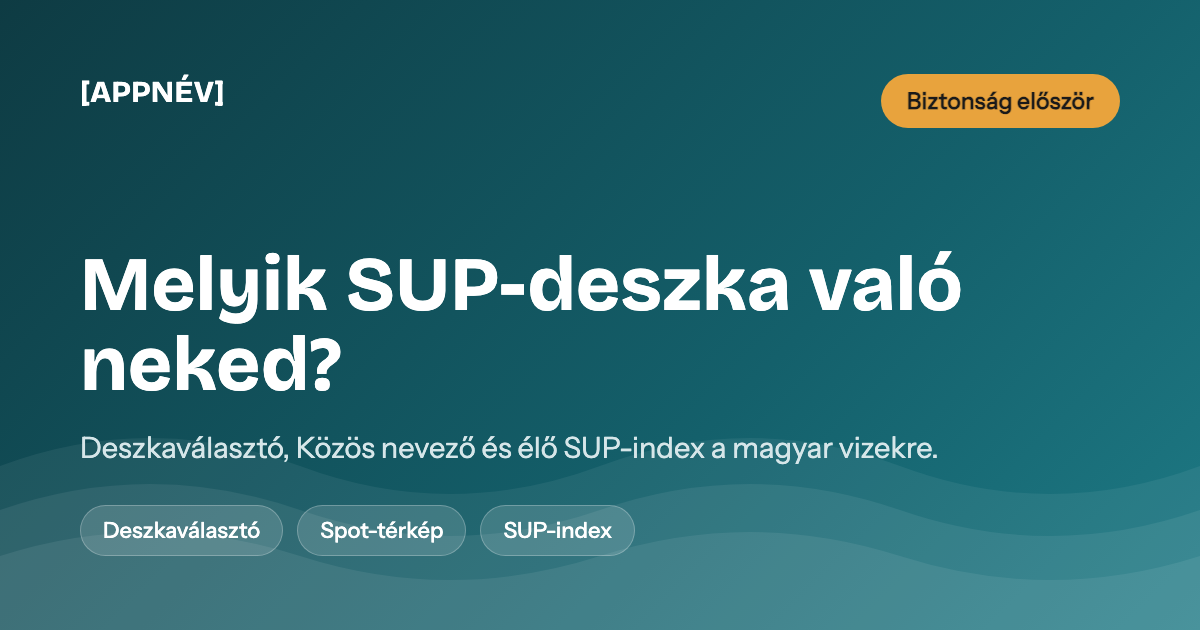
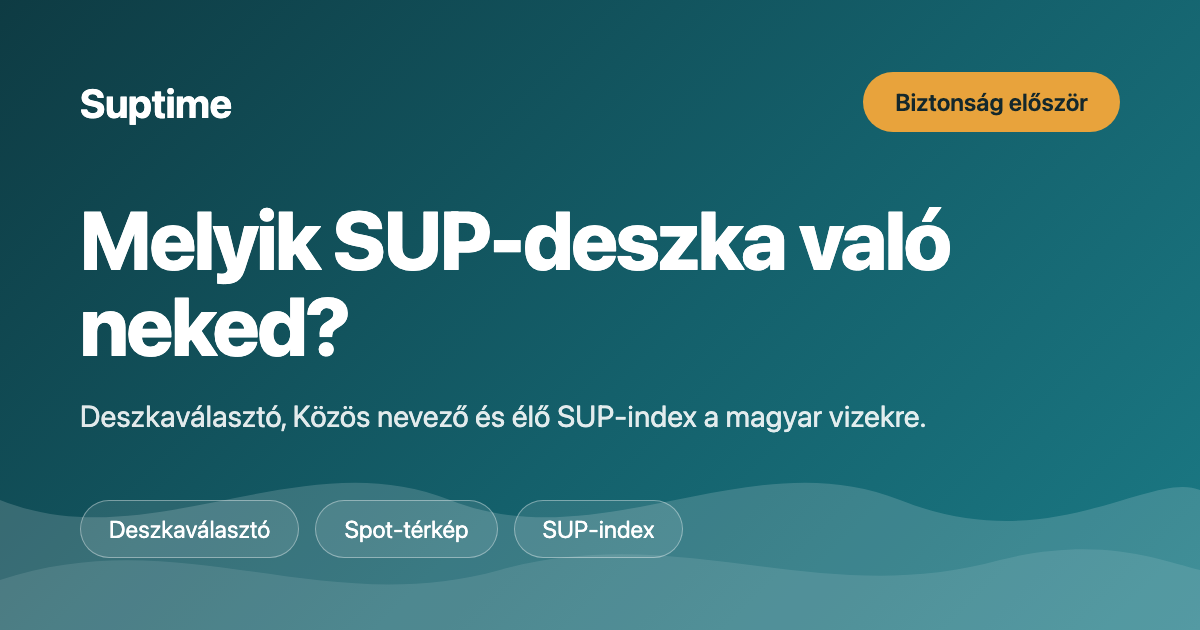
feat(brand): a termék neve Suptime — a [APPNÉV] placeholder feloldva
A név eldőlt, így az F1 óta nyitott placeholder 28 helyen kicserélve. Nem
kozmetika: a placeholder rá volt írva a megosztás-kártyára is, tehát minden
megosztott link "[APPNÉV]"-vel jelent volna meg.

- Új @core/brand (APP_NAME): a TS-kód egyetlen forrása. A 10 route-meta eddig
  beégetve tartalmazta a nevet — most innen kapja.
- i18n (hu+en, 5 namespace): ott a név a lefordított mondat része.
- OG-kártya újragenerálva ÉS mostantól újragenerálható: a forrás (og-card.html)
  is commitolva, mert az előző változatnál csak a PNG került be, a generáló HTML
  eldobódott.
- sw.js push-cím és a basic-auth realm (külön fordítási egységek).

Mellékesen: a spot-adatlap e2e-je szigorú h1-keresővel elhasalt, amikor élesbe
váltott egy II. fokú viharjelzés (a riasztás-képernyőnek saját h1-e van) —
véletlenszerű piros lett volna, mert a lokális futás a távoli DB-t nézi.

Claude-Session: https://claude.ai/code/session_01A7rfBSFr29YCeeWRVbtoxb

diff --git a/scripts/og-card.html b/scripts/og-card.html
@@ -1,0 +1,123 @@
+<!doctype html>
+<!--
+  A megosztás-kártya (1200×630) FORRÁSA — ebből készül a `public/og/default.png`.
+
+  MIÉRT VAN COMMITOLVA: az első változatot (F1.10/8) csak PNG-ként tettük be, a
+  generáló HTML eldobódott — így a kártya nem volt újragenerálható. A névváltás
+  (Suptime) pontosan ezt kérte számon: a képre RÁ VOLT ÍRVA a placeholder.
+
+  Újragenerálás:  node scripts/generate-og.mjs
+
+  A színek a `src/core/ui/tokens.css` brand-blokkjából valók (a BIZTONSÁGI
+  tokenek itt nem szerepelnek — ez marketing-felület, nem státusz-jelzés).
+-->
+<html lang="hu">
+  <head>
+    <meta charset="utf-8" />
+    <style>
+      /* A rendszer-betűkészletre építünk: a kártya offline, a Playwright
+         chromiumában generálódik, ezért nem tölthetünk webfontot. */
+      * { margin: 0; padding: 0; box-sizing: border-box; }
+
+      body {
+        width: 1200px;
+        height: 630px;
+        position: relative;
+        overflow: hidden;
+        background: linear-gradient(135deg, #0E3B43 0%, #14606B 55%, #1B7A85 100%);
+        font-family: -apple-system, BlinkMacSystemFont, "Segoe UI", Helvetica, Arial, sans-serif;
+        color: #FFFFFF;
+      }
+
+      /* Hullám-motívum — ugyanaz a formanyelv, mint a betöltés-jelzőé. */
+      .waves { position: absolute; inset: auto 0 0 0; height: 220px; opacity: 0.16; }
+      .waves + .waves { opacity: 0.1; bottom: -40px; }
+
+      .frame {
+        position: relative;
+        height: 100%;
+        padding: 72px 80px;
+        display: flex;
+        flex-direction: column;
+      }
+
+      .top { display: flex; align-items: center; justify-content: space-between; }
+
+      .brand {
+        font-size: 40px;
+        font-weight: 700;
+        letter-spacing: -0.5px;
+      }
+
+      /* Amber jelvény — a CTA-szabály szerint MINDIG sötét felirattal. */
+      .badge {
+        background: #E8A33C;
+        color: #14282C;
+        font-size: 24px;
+        font-weight: 600;
+        padding: 16px 32px;
+        border-radius: 999px;
+      }
+
+      .middle { margin-top: auto; margin-bottom: auto; }
+
+      h1 {
+        font-size: 82px;
+        line-height: 1.05;
+        font-weight: 800;
+        letter-spacing: -2px;
+        max-width: 940px;
+      }
+
+      .lead {
+        margin-top: 28px;
+        font-size: 30px;
+        line-height: 1.35;
+        color: rgba(255, 255, 255, 0.88);
+        max-width: 900px;
+      }
+
+      .chips { display: flex; gap: 16px; }
+
+      .chip {
+        border: 1px solid rgba(255, 255, 255, 0.38);
+        background: rgba(255, 255, 255, 0.1);
+        border-radius: 999px;
+        padding: 14px 28px;
+        font-size: 24px;
+      }
+    </style>
+  </head>
+  <body>
+    <svg class="waves" viewBox="0 0 1200 220" preserveAspectRatio="none" aria-hidden="true">
+      <path
+        fill="#FFFFFF"
+        d="M0,90 C150,150 300,30 450,90 C600,150 750,30 900,90 C1050,150 1150,60 1200,80 L1200,220 L0,220 Z"
+      />
+    </svg>
+    <svg class="waves" viewBox="0 0 1200 220" preserveAspectRatio="none" aria-hidden="true">
+      <path
+        fill="#FFFFFF"
+        d="M0,130 C180,70 320,170 500,120 C680,70 820,160 1000,110 C1100,85 1160,110 1200,120 L1200,220 L0,220 Z"
+      />
+    </svg>
+
+    <div class="frame">
+      <div class="top">
+        <div class="brand">Suptime</div>
+        <div class="badge">Biztonság először</div>
+      </div>
+
+      <div class="middle">
+        <h1>Melyik SUP-deszka való neked?</h1>
+        <p class="lead">Deszkaválasztó, Közös nevező és élő SUP-index a magyar vizekre.</p>
+      </div>
+
+      <div class="chips">
+        <span class="chip">Deszkaválasztó</span>
+        <span class="chip">Spot-térkép</span>
+        <span class="chip">SUP-index</span>
+      </div>
+    </div>
+  </body>
+</html>

diff --git a/src/core/brand.ts b/src/core/brand.ts
@@ -1,0 +1,18 @@
+/**
+ * Márkanév — EGYETLEN forrás a TypeScript-kód számára.
+ *
+ * Az F1 alatt a név még nem volt eldöntve, ezért `[APPNÉV]` placeholder állt
+ * ~20 helyen (route-meták, i18n-címek, a megosztás-kártya). A név 2026-07-27-én
+ * **Suptime** lett; a placeholderek feloldva.
+ *
+ * HOL ÉL MÉG A NÉV, ÉS MIÉRT NEM ITT:
+ * - az i18n-fájlokban (`locales/**`) a név a lefordított MONDATOK része
+ *   („… | Suptime"), és a fordítás nem hivatkozhat kódra;
+ * - a `public/og/default.png` kártyán RAJZOLVA (forrás: `scripts/og-card.html`,
+ *   újragenerálás: `node scripts/generate-og.mjs`);
+ * - a `public/sw.js`-ben (a service worker nem éri el a bundle-t);
+ * - a `netlify/edge-functions/basic-auth.ts` realm-jében (Deno-runtime, külön
+ *   fordítási egység — és a HTTP-fejléc csak ASCII-t enged).
+ * Névváltáskor ez az öt hely a teljes lista (`grep -ri suptime`).
+ */
+export const APP_NAME = "Suptime";

diff --git a/e2e/public-paths.spec.ts b/e2e/public-paths.spec.ts
@@ -53,7 +53,12 @@ test.describe("Publikus felület", () => {
 
     await links.first().click();
     await expect(page).toHaveURL(/\/spotok\/[a-z0-9-]+/);
-    await expect(page.getByRole("heading", { level: 1 })).toBeVisible();
+    // A `first()` NEM kozmetika: II. fokú viharjelzésnél a teljes képernyős
+    // riasztás (`role="alertdialog"`) SAJÁT h1-gyel jelenik meg az adatlap
+    // címsora mellett, és a szigorú keresés két találaton elhasal. Ez ÉLES
+    // adaton múlik (a lokális futás a távoli DB-t nézi), tehát a teszt
+    // véletlenszerűen bukna — pontosan ez történt 2026-07-27-én.
+    await expect(page.getByRole("heading", { level: 1 }).first()).toBeVisible();
   });
 
   test("szolgáltatók: lista → profil, lead-űrlappal", async ({ page }) => {

diff --git a/app/routes/szolgaltatok.uj.tsx b/app/routes/szolgaltatok.uj.tsx
@@ -8,6 +8,7 @@
 import { useTranslation } from "react-i18next";
 import { data, Form, redirect } from "react-router";
 
+import { APP_NAME } from "@core/brand";
 import { requireUser } from "@core/auth/session.server";
 import { createSupabaseServerClient } from "@core/auth/supabase.server";
 import { Button, Card } from "@core/ui";
@@ -56,7 +57,7 @@ export async function action({ request }: Route.ActionArgs) {
 }
 
 export const meta: Route.MetaFunction = () => {
-  return [{ title: "[APPNÉV] — Regisztráld a szolgáltatásod" }];
+  return [{ title: `${APP_NAME} — Regisztráld a szolgáltatásod` }];
 };
 
 export default function NewProviderRoute({ actionData }: Route.ComponentProps) {

diff --git a/app/routes/admin.szolgaltatok.tsx b/app/routes/admin.szolgaltatok.tsx
@@ -8,6 +8,7 @@
 import { useTranslation } from "react-i18next";
 import { data, Form } from "react-router";
 
+import { APP_NAME } from "@core/brand";
 import { requireRole } from "@core/auth/session.server";
 import { createSupabaseServerClient } from "@core/auth/supabase.server";
 import { Button, Card, StatusBadge } from "@core/ui";
@@ -60,7 +61,7 @@ export async function action({ request }: Route.ActionArgs) {
 }
 
 export const meta: Route.MetaFunction = () => {
-  return [{ title: "[APPNÉV] — Szolgáltató-hitelesítés" }];
+  return [{ title: `${APP_NAME} — Szolgáltató-hitelesítés` }];
 };
 
 export default function AdminProvidersRoute({ loaderData }: Route.ComponentProps) {

diff --git a/app/routes/admin.velemenyek.tsx b/app/routes/admin.velemenyek.tsx
@@ -6,6 +6,7 @@
 import { useTranslation } from "react-i18next";
 import { data, Form } from "react-router";
 
+import { APP_NAME } from "@core/brand";
 import { requireRole } from "@core/auth/session.server";
 import { createSupabaseServerClient } from "@core/auth/supabase.server";
 import { Button, Card, StatusBadge } from "@core/ui";
@@ -84,7 +85,7 @@ export async function action({ request }: Route.ActionArgs) {
 }
 
 export const meta: Route.MetaFunction = () => {
-  return [{ title: "[APPNÉV] — Vélemény-moderáció" }];
+  return [{ title: `${APP_NAME} — Vélemény-moderáció` }];
 };
 
 export default function AdminReviewsRoute({ loaderData }: Route.ComponentProps) {

diff --git a/app/routes/adatvedelem.tsx b/app/routes/adatvedelem.tsx
@@ -2,6 +2,7 @@
  * /adatvedelem — Adatvédelmi tájékoztató (F1.8). Statikus, kétnyelvű jogi oldal
  * (a tartalom az `@core/legal`-ból, locale-helyesen). SEO: loader-alapú meta.
  */
+import { APP_NAME } from "@core/brand";
 import { getLocaleFromPath } from "@core/i18n";
 import { buildPageSeo } from "@core/seo/page-seo";
 import { privacyDocument } from "@core/legal/content";
@@ -16,7 +17,7 @@ export async function loader({ request }: Route.LoaderArgs) {
     request,
     locale,
     path: "/adatvedelem",
-    title: `${doc.title} | [APPNÉV]`,
+    title: `${doc.title} | ${APP_NAME}`,
     description: doc.disclaimer,
   });
   return { locale, seo };

diff --git a/app/routes/beleegyezes.tsx b/app/routes/beleegyezes.tsx
@@ -7,6 +7,7 @@
 import { useTranslation } from "react-i18next";
 import { data, Form, Link, redirect } from "react-router";
 
+import { APP_NAME } from "@core/brand";
 import { requireUser, safeRedirect } from "@core/auth/session.server";
 import { createSupabaseServerClient } from "@core/auth/supabase.server";
 import { REQUIRED_CONSENT_KINDS } from "@core/consent/config";
@@ -37,7 +38,7 @@ export async function action({ request }: Route.ActionArgs) {
 }
 
 export const meta: Route.MetaFunction = () => [
-  { title: "[APPNÉV] — Feltételek elfogadása" },
+  { title: `${APP_NAME} — Feltételek elfogadása` },
   { name: "robots", content: "noindex" },
 ];
 

diff --git a/app/routes/aszf.tsx b/app/routes/aszf.tsx
@@ -2,6 +2,7 @@
  * /aszf — Általános Szerződési Feltételek (F1.8). Statikus, kétnyelvű jogi oldal
  * (a tartalom az `@core/legal`-ból, locale-helyesen). SEO: loader-alapú meta.
  */
+import { APP_NAME } from "@core/brand";
 import { getLocaleFromPath } from "@core/i18n";
 import { buildPageSeo } from "@core/seo/page-seo";
 import { termsDocument } from "@core/legal/content";
@@ -16,7 +17,7 @@ export async function loader({ request }: Route.LoaderArgs) {
     request,
     locale,
     path: "/aszf",
-    title: `${doc.title} | [APPNÉV]`,
+    title: `${doc.title} | ${APP_NAME}`,
     description: doc.disclaimer,
   });
   return { locale, seo };

diff --git a/app/routes/elfelejtett-jelszo.tsx b/app/routes/elfelejtett-jelszo.tsx
@@ -6,6 +6,7 @@
  */
 import { data, Form, Link, redirect } from "react-router";
 
+import { APP_NAME } from "@core/brand";
 import { isTurnstileEnabled, Turnstile, TURNSTILE_RESPONSE_FIELD } from "@core/auth";
 import { createSupabaseServerClient } from "@core/auth/supabase.server";
 import { getUser } from "@core/auth/session.server";
@@ -53,7 +54,7 @@ export async function action({ request }: Route.ActionArgs) {
 }
 
 export const meta: Route.MetaFunction = () => [
-  { title: "[APPNÉV] — Elfelejtett jelszó" },
+  { title: `${APP_NAME} — Elfelejtett jelszó` },
   { name: "robots", content: "noindex" },
 ];
 

diff --git a/app/routes/regisztracio.tsx b/app/routes/regisztracio.tsx
@@ -12,6 +12,7 @@ import {
   Turnstile,
   TURNSTILE_RESPONSE_FIELD,
 } from "@core/auth";
+import { APP_NAME } from "@core/brand";
 import { createSupabaseServerClient } from "@core/auth/supabase.server";
 import { getUser, safeRedirect } from "@core/auth/session.server";
 import { CONSENT_VERSION } from "@core/consent/config";
@@ -87,7 +88,7 @@ export async function action({ request }: Route.ActionArgs) {
 }
 
 export const meta: Route.MetaFunction = () => [
-  { title: "[APPNÉV] — Regisztráció" },
+  { title: `${APP_NAME} — Regisztráció` },
   { name: "robots", content: "noindex" },
 ];
 

diff --git a/app/routes/uj-jelszo.tsx b/app/routes/uj-jelszo.tsx
@@ -7,6 +7,7 @@
 import { useTranslation } from "react-i18next";
 import { data, Form, Link } from "react-router";
 
+import { APP_NAME } from "@core/brand";
 import { requireUser } from "@core/auth/session.server";
 import { createSupabaseServerClient } from "@core/auth/supabase.server";
 import { Button, Card } from "@core/ui";
@@ -40,7 +41,7 @@ export async function action({ request }: Route.ActionArgs) {
 }
 
 export const meta: Route.MetaFunction = () => [
-  { title: "[APPNÉV] — Új jelszó" },
+  { title: `${APP_NAME} — Új jelszó` },
   { name: "robots", content: "noindex" },
 ];
 
